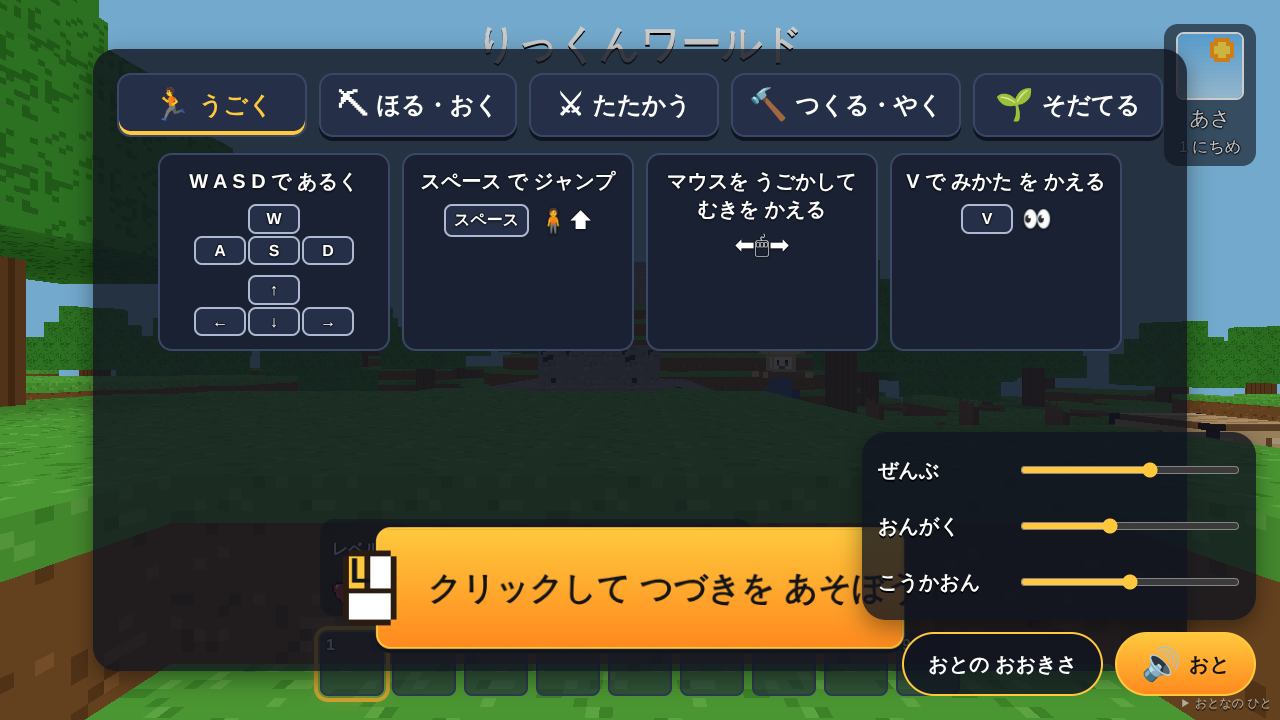
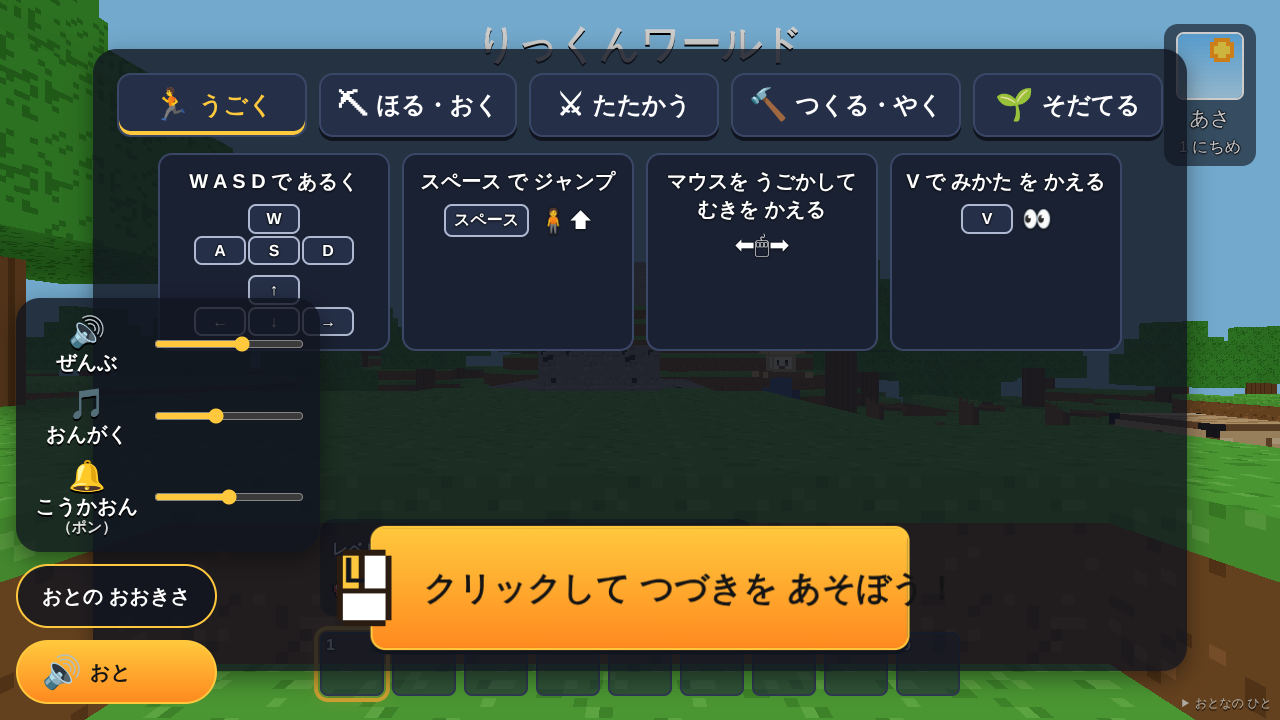
SOUND-1: おとの画面を左下の専用の場所へ・絵をそえる、こだまの片付け、ゆらぎの状態を名前ごとに・落とす音は乱数を使わない
Claude-Session: https://claude.ai/code/session_01H3Pik1gR9EoazP8up5ztuc

diff --git a/src/fx/sfx.test.ts b/src/fx/sfx.test.ts
@@ -5,7 +5,13 @@ import { FARM_SOUNDS } from './farmSounds';
 import { FX_SETTINGS, type FxSettings } from './config';
 import { ComboTracker } from './combo';
 import { SFX_CATALOG } from './sfxCatalog';
-import { BIG_NAMES, VARY, varyOf } from './sfxVary';
+import { BIG_NAMES, VARY, newVaryState, variation, varyOf } from './sfxVary';
+
+function newVaryStateWith(name: string, idx: number) {
+  const s = newVaryState();
+  s.comboIdx.set(name, idx);
+  return s;
+}
 import { hz } from './sfxVoices';
 import { SoundFx, SOUNDS, type AudioLike, type Chord, type Tone } from './sound';
 import { drainSounds } from './soundLog';
@@ -368,6 +374,36 @@ describe('S5 続けてひろう', () => {
 });
 
 describe('S6 数の上限', () => {
+  it('落とした音は ゆらぎの乱数を使わない（あとの音の並びが変わらない）', () => {
+    const a = make({ seed: 7 });
+    const b = make({ seed: 7 });
+    for (let i = 0; i < 4; i++) a.fx.play('pickup'); // 4 つ目は落ちる
+    for (let i = 0; i < 3; i++) b.fx.play('pickup');
+    a.f.clock.t = 10;
+    b.f.clock.t = 10;
+    a.fx.drainRecords();
+    b.fx.drainRecords();
+    for (let i = 0; i < 3; i++) {
+      a.fx.play('dig');
+      b.fx.play('dig');
+    }
+    const ra = a.fx.drainRecords().map((r) => [r.semis, r.cents]);
+    const rb = b.fx.drainRecords().map((r) => [r.semis, r.cents]);
+    expect(ra).toEqual(rb);
+  });
+  it('続けて取る段のはじめの音は 名前ごと（ほかの tones 音に上書きされない）', () => {
+    const st = newVaryState();
+    const chord = { root: 0, minor: false };
+    const rng = () => 0; // いつも 先頭の候補
+    variation('pickup', chord, rng, st);
+    const first = st.comboIdx.get('pickup');
+    variation('dropRare', chord, () => 0.99, st);
+    expect(st.comboIdx.get('pickup')).toBe(first);
+    expect(st.comboIdx.get('dropRare')).not.toBeUndefined();
+    const v = variation('pickup', chord, rng, st, 1);
+    const w = variation('pickup', chord, rng, newVaryStateWith('pickup', first!), 1);
+    expect(v.shift).toBe(w.shift);
+  });
   it('同じ名前が鳴っているうちに 4 つ目 → 鳴らさず dropped: true', () => {
     const { fx, f } = make();
     for (let i = 0; i < 4; i++) fx.play('pickup');

diff --git a/src/ui/soundSettings.ts b/src/ui/soundSettings.ts
@@ -23,9 +23,9 @@ export interface SoundSettingsUi {
 }
 
 const KNOBS = [
-  { id: 'sound-master', label: 'ぜんぶ', get: (d: SoundSettingsDeps) => d.audio.masterVolume, set: (d: SoundSettingsDeps, v: number) => (d.audio.masterVolume = v) },
-  { id: 'sound-bgm', label: 'おんがく', get: (d: SoundSettingsDeps) => d.audio.bgmVolume, set: (d: SoundSettingsDeps, v: number) => (d.audio.bgmVolume = v) },
-  { id: 'sound-fx', label: 'こうかおん', get: (d: SoundSettingsDeps) => d.fx.fxVolume, set: (d: SoundSettingsDeps, v: number) => (d.fx.fxVolume = v) },
+  { id: 'sound-master', label: 'ぜんぶ', pic: '🔊', eg: '', get: (d: SoundSettingsDeps) => d.audio.masterVolume, set: (d: SoundSettingsDeps, v: number) => (d.audio.masterVolume = v) },
+  { id: 'sound-bgm', label: 'おんがく', pic: '🎵', eg: '', get: (d: SoundSettingsDeps) => d.audio.bgmVolume, set: (d: SoundSettingsDeps, v: number) => (d.audio.bgmVolume = v) },
+  { id: 'sound-fx', label: 'こうかおん', pic: '🔔', eg: 'ポン', get: (d: SoundSettingsDeps) => d.fx.fxVolume, set: (d: SoundSettingsDeps, v: number) => (d.fx.fxVolume = v) },
 ] as const;
 
 export function createSoundSettings(deps: SoundSettingsDeps, parent?: HTMLElement): SoundSettingsUi {
@@ -35,7 +35,7 @@ export function createSoundSettings(deps: SoundSettingsDeps, parent?: HTMLElemen
     `<div class="ss-panel" data-testid="sound-panel" hidden>` +
     KNOBS.map(
       (k) =>
-        `<label class="ss-row"><span class="ss-label">${k.label}</span>` +
+        `<label class="ss-row"><span class="ss-label"><span class="ss-pic" aria-hidden="true">${k.pic}</span>${k.label}${k.eg ? `<span class="ss-eg" aria-hidden="true">（${k.eg}）</span>` : ''}</span>` +
         `<input class="ss-range" type="range" min="0" max="1" step="0.01" data-testid="${k.id}" aria-label="${k.label}"></label>`,
     ).join('') +
     `</div>` +

diff --git a/src/fx/sfxVary.ts b/src/fx/sfxVary.ts
@@ -158,12 +158,12 @@ export interface Variation {
 export interface VaryState {
   /** 名前ごとの「直前に選んだ和音の音」 */
   last: Map<string, number>;
-  /** 続けて取る段のはじめに選んだ和音の音（0 = 根音、1 = 3 度、2 = 5 度） */
-  comboIdx: number;
+  /** 名前ごとの、続けて取る段のはじめに選んだ和音の音（0 = 根音、1 = 3 度、2 = 5 度） */
+  comboIdx: Map<string, number>;
 }
 
 export function newVaryState(): VaryState {
-  return { last: new Map(), comboIdx: 0 };
+  return { last: new Map(), comboIdx: new Map() };
 }
 
 /**
@@ -188,7 +188,7 @@ export function variation(
     const cands = [0, 1, 2].map((i) => nearestShift(chord.root + offs[i]!));
     if (comboStep !== undefined && comboStep > 0) {
       // 続けて取る: はじめの音から、和音の音を 1 つずつ上がる。1 オクターブで止まる
-      const i0 = state.comboIdx;
+      const i0 = state.comboIdx.get(name) ?? 0;
       const idx = Math.min(i0 + comboStep, 3);
       out.shift = cands[i0]! + offs[idx]! - offs[i0]!;
       out.semis = nearestShift(out.shift);
@@ -197,7 +197,7 @@ export function variation(
       const choices = [0, 1, 2].filter((i) => cands[i] !== prev);
       const i = choices[Math.floor(rng() * choices.length)]!;
       state.last.set(name, cands[i]!);
-      state.comboIdx = i;
+      state.comboIdx.set(name, i);
       out.semis = out.shift = cands[i]!;
     }
   }

diff --git a/src/ui/soundSettings.css b/src/ui/soundSettings.css
@@ -1,11 +1,12 @@
 /* 案内画面の右下: 「おと」ボタン（64px 以上）と「おとの おおきさ」の枠（SOUND.md §7）。見た目の細かさはアートチーム */
 .ss-root {
   position: absolute;
-  right: var(--rk-sp-5, 24px);
-  bottom: var(--rk-sp-5, 24px);
+  /* 主ボタン・もちものの たな・「おとなの ひと」と かさならない 左下のすみ（画面のはしから 16px 以上） */
+  left: 16px;
+  bottom: 16px;
   display: flex;
   flex-direction: column;
-  align-items: flex-end;
+  align-items: flex-start;
   gap: var(--rk-sp-3, 12px);
   cursor: default;
   z-index: 2;
@@ -31,10 +32,21 @@
   font-weight: 700;
 }
 .ss-label {
-  min-width: 6.5em;
+  display: flex;
+  flex-direction: column;
+  align-items: center;
+  min-width: 5.5em;
+  line-height: 1.2;
+}
+.ss-pic {
+  font-size: 1.5em;
+}
+.ss-eg {
+  font-size: 0.75em;
+  opacity: 0.85;
 }
 .ss-range {
-  width: 220px;
+  width: 150px;
   height: 44px;
   margin: 0;
   accent-color: var(--rk-accent, #ffc83d);
@@ -42,7 +54,8 @@
 }
 .ss-buttons {
   display: flex;
-  align-items: center;
+  flex-direction: column;
+  align-items: stretch;
   gap: var(--rk-sp-3, 12px);
 }
 .ss-open,

diff --git a/src/fx/sound.ts b/src/fx/sound.ts
@@ -320,19 +320,13 @@ export class SoundFx {
       drop = true;
     }
 
-    const v = variation(name, chord, this.rng, this.vary, opt?.comboStep);
-    const rec: SfxRecord = {
-      name,
-      semis: v.semis,
-      cents: v.cents,
-      chord: name ? chord.name : 'C',
-      big,
-      dropped: drop,
-    };
+    // 落とす音は ゆらぎの乱数も「直前の和音の音」も使わない（あとの音の並びを変えない）
     if (drop) {
-      this.record(rec);
+      this.record({ name, semis: 0, cents: 0, chord: name ? chord.name : 'C', big, dropped: true });
       return;
     }
+    const v = variation(name, chord, this.rng, this.vary, opt?.comboStep);
+    this.record({ name, semis: v.semis, cents: v.cents, chord: name ? chord.name : 'C', big, dropped: false });
 
     const ratio = Math.pow(2, (v.shift + (v.cents + semitones * 100) / 100) / 12);
     const pitch = (f: number): number => {
@@ -402,7 +396,6 @@ export class SoundFx {
       end = Math.max(end, stop + 0.02);
     }
     this.active.push({ name, parts, end, big });
-    this.record(rec);
     this.played++;
     if (big) this.opts.onBig?.(name);
   }

diff --git a/src/fx/bgm/songBus.ts b/src/fx/bgm/songBus.ts
@@ -9,6 +9,8 @@ export interface SongBus {
   input: GainNode;
   /** こだまに送る所（こだまのない曲は null） */
   echoIn: GainNode | null;
+  /** 曲の片付け: こだまの輪（delay ↔ feedback）も切る */
+  dispose(): void;
 }
 
 /** 曲ごとの出口を作って dest につなぐ（曲の大きさ level・こだま） */
@@ -17,6 +19,7 @@ export function createSongBus(ctx: BaseAudioContext, dest: AudioNode, song: Song
   input.gain.value = song.level;
   input.connect(dest);
   let echoIn: GainNode | null = null;
+  const echoNodes: AudioNode[] = [];
   if (song.echo) {
     const { stepDur } = songInfo(song);
     const dl = ctx.createDelay(2);
@@ -31,8 +34,16 @@ export function createSongBus(ctx: BaseAudioContext, dest: AudioNode, song: Song
     fb.connect(dl);
     dl.connect(wet);
     wet.connect(input);
+    echoNodes.push(dl, fb, wet, echoIn);
   }
-  return { input, echoIn };
+  return {
+    input,
+    echoIn,
+    dispose() {
+      for (const n of echoNodes) n.disconnect();
+      input.disconnect();
+    },
+  };
 }
 
 /** 時刻 t に 1 ステップぶんの音を予約する */

diff --git a/src/fx/bgm/BgmPlayer.test.ts b/src/fx/bgm/BgmPlayer.test.ts
@@ -125,6 +125,19 @@ describe('B4 BGM の切り替え', () => {
     expect(bgm.songCount()).toBe(1);
   });
 
+  it('片づけた曲の こだま（delay と feedback の輪）も切る', () => {
+    const { bgm, ctx } = mk();
+    bgm.play('night');
+    const delays = ctx.all('delay');
+    expect(delays.length).toBe(1);
+    expect(delays[0].outputs.length).toBeGreaterThan(0);
+    ctx.currentTime = 1;
+    bgm.play('day');
+    ctx.currentTime = 10;
+    bgm.tick();
+    expect(delays[0].outputs.length).toBe(0);
+  });
+
   it('unlock の前の play は 覚えておいて、unlock のあとに鳴らす', () => {
     const s = createAudioSettings();
     let ctx: FakeAudioContext | null = null;

diff --git a/src/fx/bgm/BgmPlayer.ts b/src/fx/bgm/BgmPlayer.ts
@@ -100,7 +100,7 @@ export class BgmPlayer {
     this.songs = this.songs.filter((s) => {
       if (ctx.currentTime > s.stopAt + 0.1) {
         s.fade.disconnect();
-        s.bus.input.disconnect();
+        s.bus.dispose();
         return false;
       }
       return true;

diff --git a/docs/audio/SOUND.md b/docs/audio/SOUND.md
@@ -157,8 +157,8 @@
 文字はひらがな・カタカナ（漢字は使わない）。画面は HTML で重ねる。
 
 **画面の配置**（案内画面の中。見た目の細かさはアートチーム）
-- 案内画面の右下に、大きい丸いボタン「おと」（スピーカーの絵 ＋ 文字、64px 以上）。ふだんは、これだけが見える。
-- 「おとの おおきさ」を押すと、ボタンの上に小さな枠が開き、つまみが 3 本、たてに並ぶ（上から「ぜんぶ」「おんがく」「こうかおん」）。つまみは 1 本ずつ大きく（高さ 40px 以上）、動かすと その場で音が変わる。もう一度押すと閉じる。
+- 案内画面の**左下のすみ**に、大きい丸いボタン「おと」（スピーカーの絵 ＋ 文字、64px 以上）と、その上に「おとの おおきさ」ボタンをたてに並べる。主ボタン「クリックして つづきを あそぼう」・もちものの たな・右下の「おとなの ひと」とは かさならない（1280×720 と 1024×640 で確かめた）。画面のはしから 16px 以上はなす。
+- 「おとの おおきさ」を押すと、ボタンの上に小さな枠が開き、つまみが 3 本、たてに並ぶ（上から「ぜんぶ」「おんがく」「こうかおん」。それぞれ絵 🔊・🎵・🔔 をそえ、「こうかおん」には音の例「（ポン）」もそえる）。つまみは 1 本ずつ大きく（高さ 40px 以上）、動かすと その場で音が変わる。もう一度押すと閉じる。枠は ひらいているあいだだけ、案内の絵の左下に少しかさなる。
 - 案内画面を閉じる（あそぶにもどる）と、枠も閉じる。あそぶ画面・もちもの画面には出さない。
 
 ## 8. テストで確かめる（`window.__rikkun.audio`）
